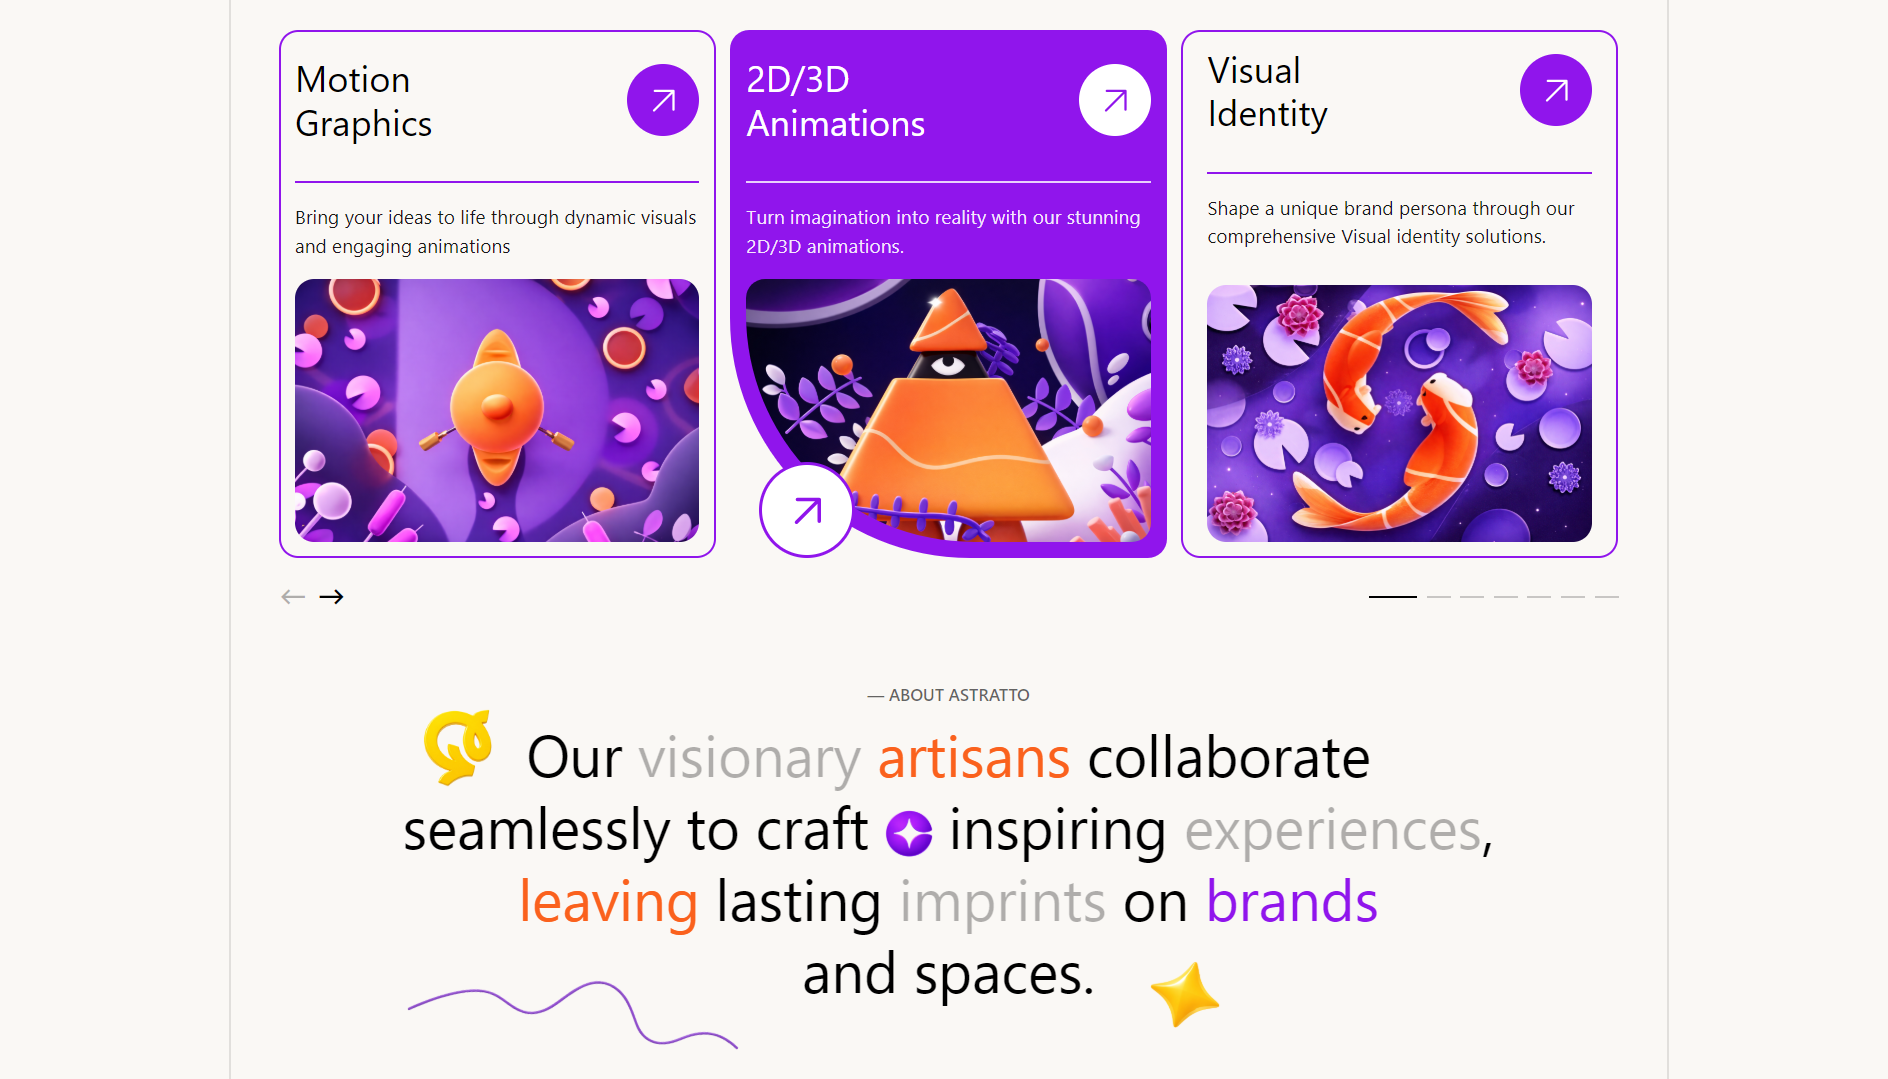
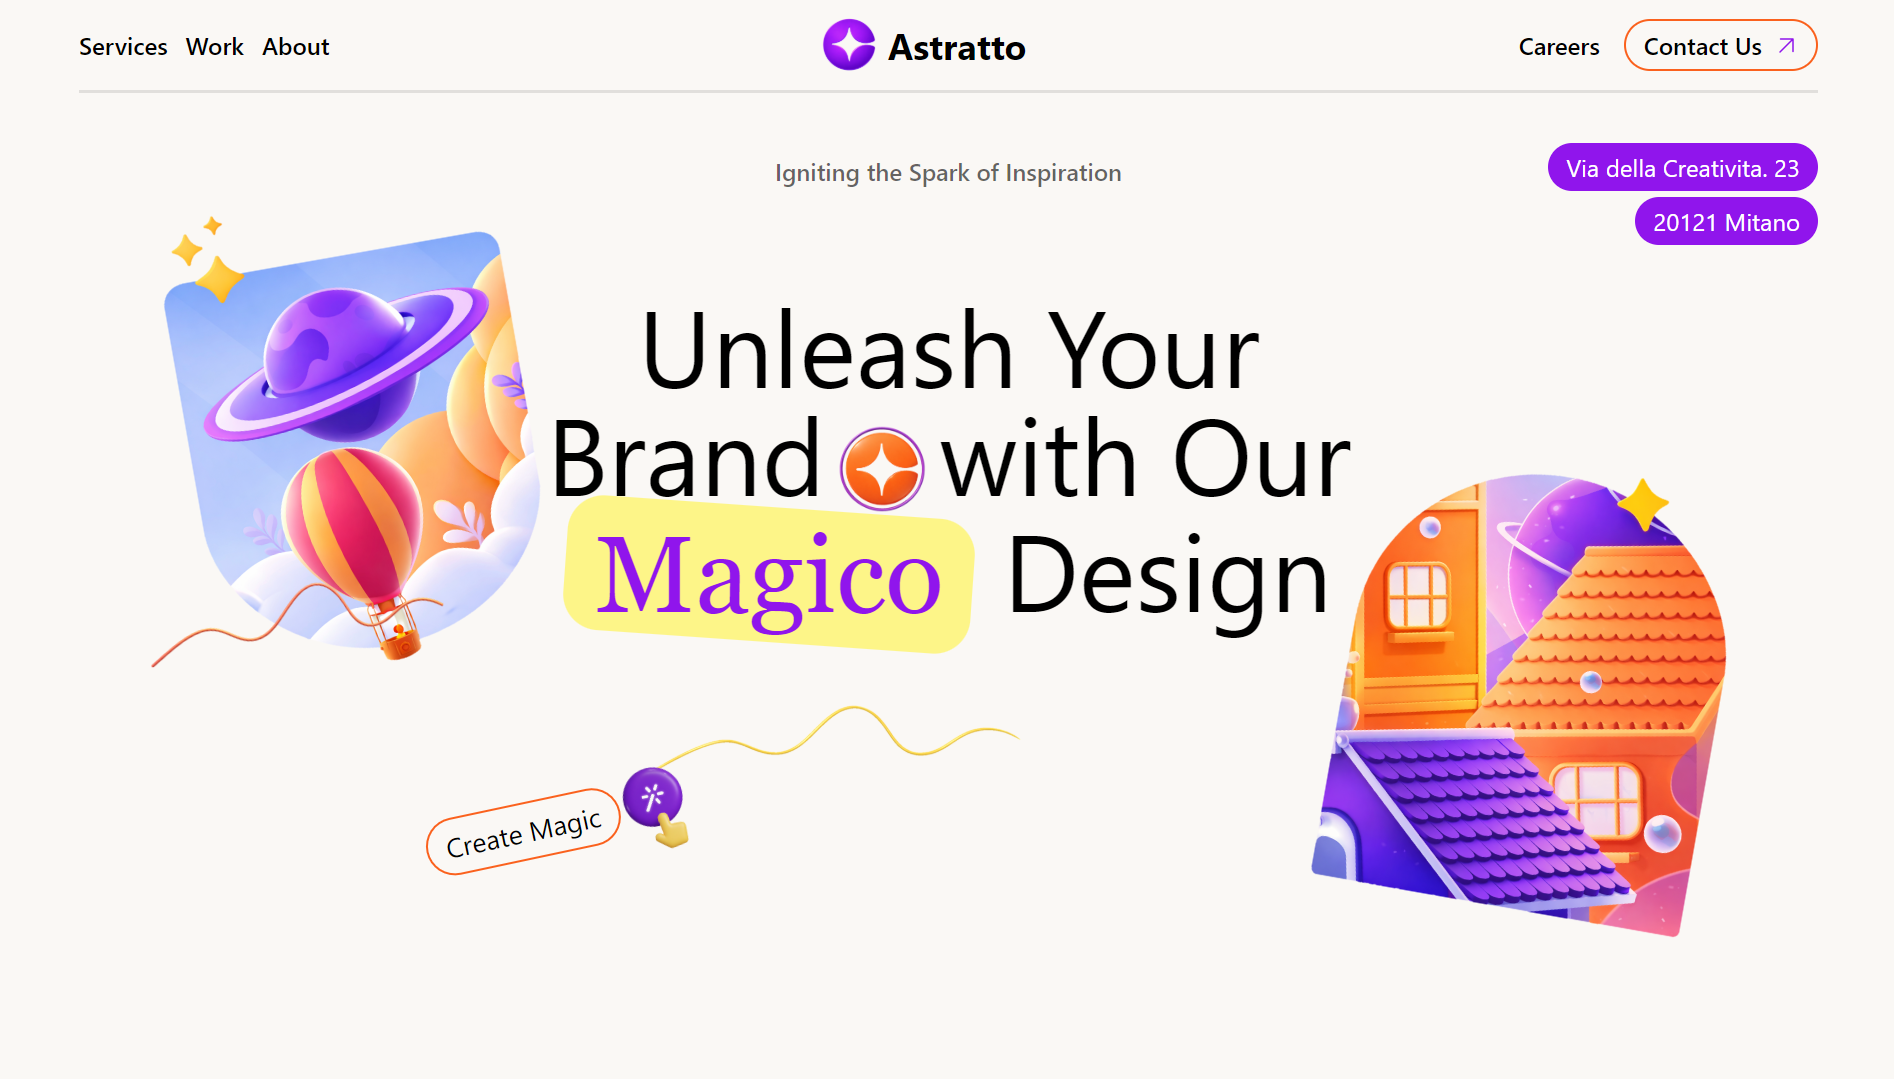
projects data corrected

diff --git a/src/components/windows/github.scss b/src/components/windows/github.scss
@@ -2,7 +2,6 @@
   padding: 1rem;
   overflow-y: visible;
   margin-bottom: 5rem;
-
   color: rgb(245, 245, 245);
 
   display: flex;
@@ -15,47 +14,111 @@
     flex-grow: 1;
     flex-basis: 25rem;
     max-width: 100rem;
-    background-color: rgb(44, 44, 44);
-    padding: 1rem;
-    border-radius: 1rem;
+    padding: 14px;
+    border-radius: 22px;
+    transition: all 0.3s ease;
+    background: linear-gradient(
+      180deg,
+      rgba(255, 255, 255, 0.06),
+      rgba(255, 255, 255, 0.02)
+    );
 
+    border: 1px solid rgba(255, 255, 255, 0.08);
+    box-shadow: 0 20px 50px rgba(0, 0, 0, 0.55);
+    transition:
+      transform 0.35s ease,
+      box-shadow 0.35s ease;
 
-    img {
-      aspect-ratio: 16 / 9;
-      object-fit: cover;
-      border-radius: 1rem;
+    display: flex;
+    flex-direction: column;
+    justify-content: space-between;
+
+    &:hover {
+      transform: translateY(-10px);
+      box-shadow: 0 35px 80px rgba(0, 0, 0, 0.75);
+    }
+
+    .card-image {
+      border-radius: 16px;
+      overflow: hidden;
+
+      img {
+        width: 100%;
+        height: 210px;
+        object-fit: cover;
+        display: block;
+        transition: transform 0.6s ease;
+      }
+
+      .card:hover .card-image img {
+        transform: scale(2);
+      }
     }
 
     h2 {
-      font-size: 1.2rem;
-      font-weight: 500;
+      font-size: 1.35rem;
+      font-weight: 600;
+      margin-block: 10px;
+      color: whitesmoke;
     }
 
     p.description {
-      opacity: 70%;
-      word-spacing: 0.4rem;
-      line-height: 1.3;
+      font-size: 0.95rem;
+      opacity: 60%;
+      line-height: 1.6;
+      margin-bottom: 18px;
     }
 
     .tags {
       display: flex;
       gap: 10px;
       flex-wrap: wrap;
-      padding-block: 1rem;
+      padding-bottom: 20px;
       .tag {
-        background-color: rgb(39, 77, 77);
+        font-size: 0.95rem;
+        background: rgba(255, 255, 255, 0.08);
+        font-weight: 600;
         width: fit-content;
-        padding: 5px 14px;
+        padding: 6px 14px;
         border-radius: 50px;
         white-space: nowrap;
+        color: rgba(255, 255, 255, 0.85);
+        border: 1px solid rgba(255, 255, 255, 0.12);
       }
     }
 
     .urls {
       display: flex;
       gap: 1rem;
+      justify-content: space-between;
+      align-items: center;
 
       a {
+        color: white;
+        text-decoration: none;
+        font-weight: 600;
+        transition: all 0.3s ease;
+        font-size: 1rem;
+
+        &:hover {
+          box-shadow: 0 0 0 1px rgb(222, 222, 222);
+        }
+
+        &:active {
+          scale: 0.95;
+        }
+      }
+
+      a.repoLink,
+      a.liveLink {
+        background-color: rgb(81, 81, 81);
+        color: whitesmoke;
+        padding: 10px 22px;
+        border-radius: 50px;
+      }
+
+      a.liveLink {
+        background-color: rgb(31, 31, 31);
         color: white;
       }
     }

diff --git a/src/components/windows/Github.jsx b/src/components/windows/Github.jsx
@@ -3,51 +3,57 @@ import GithubData from "../../assets/Github.json";
 import MacWindow from "./MacWindow";
 import "./github.scss";
 
-const Github = ({
-  windowName,
-  setWindowState,
-  isFullScreen,
-  setIsFullScreen,
-}) => {
+const Github = ({ windowName, setWindowState, isFullScreen, setIsFullScreen }) => {
   return (
     <MacWindow
       windowName={windowName}
       setWindowState={setWindowState}
       isFullScreen={isFullScreen}
-      setIsFullScreen={setIsFullScreen}
-    >
+      setIsFullScreen={setIsFullScreen}>
       {/* As children pass hoga .cards pura in the MacWindow */}
       <div className="cards">
         {GithubData.map((project, idx) => {
           return (
             <div key={idx} className="card">
-              <img
-                loading="eager"
-                width="100%"
-                height="200px"
-                src={project.image}
-                alt=""
-              />
-              <h2>{project.title}</h2>
-              <p className="description">{project.description}</p>
+              <div className="content">
+                <div className="card-image">
+                  <img
+                    loading="eager"
+                    width="100%"
+                    height="200px"
+                    src={project.image}
+                    alt=""
+                  />
+                </div>
+                <h2>{project.title}</h2>
+                <p className="description">{project.description}</p>
 
-              <div className="tags">
-                {project.tags.map((tag, idx) => {
-                  return tag ? (
-                    <p key={idx} className="tag">
-                      {tag}
-                    </p>
-                  ) : (
-                    "Loading..."
-                  );
-                })}
+                <div className="tags">
+                  {project.tags.map((tag, idx) => {
+                    return tag ? (
+                      <p key={idx} className="tag">
+                        {tag}
+                      </p>
+                    ) : (
+                      "Loading..."
+                    );
+                  })}
+                </div>
               </div>
 
               <div className="urls">
-                <a target="_blank" href={project.repoLink}>
+                <a
+                  title="Go to Github Repository"
+                  className="repoLink"
+                  target="_blank"
+                  href={project.repoLink}>
                   Repsitory
                 </a>
-                <a target="_blank" href={project.demoLink}>
+                <a
+                  title="Open Live Webpage"
+                  className="liveLink"
+                  target="_blank"
+                  href={project.demoLink}>
                   Live Link
                 </a>
               </div>

diff --git a/src/components/windows/github.css b/src/components/windows/github.css
@@ -1,0 +1,104 @@
+.cards {
+  padding: 1rem;
+  overflow-y: visible;
+  margin-bottom: 5rem;
+  color: rgb(245, 245, 245);
+  display: flex;
+  flex-wrap: wrap;
+  gap: 1rem;
+  justify-content: center;
+}
+.cards .card {
+  flex-grow: 1;
+  flex-basis: 25rem;
+  max-width: 100rem;
+  padding: 14px;
+  border-radius: 22px;
+  transition: all 0.3s ease;
+  background: linear-gradient(180deg, rgba(255, 255, 255, 0.06), rgba(255, 255, 255, 0.02));
+  border: 1px solid rgba(255, 255, 255, 0.08);
+  box-shadow: 0 20px 50px rgba(0, 0, 0, 0.55);
+  transition: transform 0.35s ease, box-shadow 0.35s ease;
+  display: flex;
+  flex-direction: column;
+  justify-content: space-between;
+}
+.cards .card:hover {
+  transform: translateY(-10px);
+  box-shadow: 0 35px 80px rgba(0, 0, 0, 0.75);
+}
+.cards .card .card-image {
+  border-radius: 16px;
+  overflow: hidden;
+}
+.cards .card .card-image img {
+  width: 100%;
+  height: 210px;
+  -o-object-fit: cover;
+     object-fit: cover;
+  display: block;
+  transition: transform 0.6s ease;
+}
+.cards .card .card-image .card:hover .card-image img {
+  transform: scale(2);
+}
+.cards .card h2 {
+  font-size: 1.35rem;
+  font-weight: 600;
+  margin-block: 10px;
+  color: whitesmoke;
+}
+.cards .card p.description {
+  font-size: 0.95rem;
+  opacity: 60%;
+  line-height: 1.6;
+  margin-bottom: 18px;
+}
+.cards .card .tags {
+  display: flex;
+  gap: 10px;
+  flex-wrap: wrap;
+  padding-bottom: 20px;
+}
+.cards .card .tags .tag {
+  font-size: 0.95rem;
+  background: rgba(255, 255, 255, 0.08);
+  font-weight: 600;
+  width: -moz-fit-content;
+  width: fit-content;
+  padding: 6px 14px;
+  border-radius: 50px;
+  white-space: nowrap;
+  color: rgba(255, 255, 255, 0.85);
+  border: 1px solid rgba(255, 255, 255, 0.12);
+}
+.cards .card .urls {
+  display: flex;
+  gap: 1rem;
+  justify-content: space-between;
+  align-items: center;
+}
+.cards .card .urls a {
+  color: white;
+  text-decoration: none;
+  font-weight: 600;
+  transition: all 0.3s ease;
+  font-size: 1rem;
+}
+.cards .card .urls a:hover {
+  box-shadow: 0 0 0 1px rgb(222, 222, 222);
+}
+.cards .card .urls a:active {
+  scale: 0.95;
+}
+.cards .card .urls a.repoLink,
+.cards .card .urls a.liveLink {
+  background-color: rgb(81, 81, 81);
+  color: whitesmoke;
+  padding: 10px 22px;
+  border-radius: 50px;
+}
+.cards .card .urls a.liveLink {
+  background-color: rgb(31, 31, 31);
+  color: white;
+}/*# sourceMappingURL=github.css.map */
